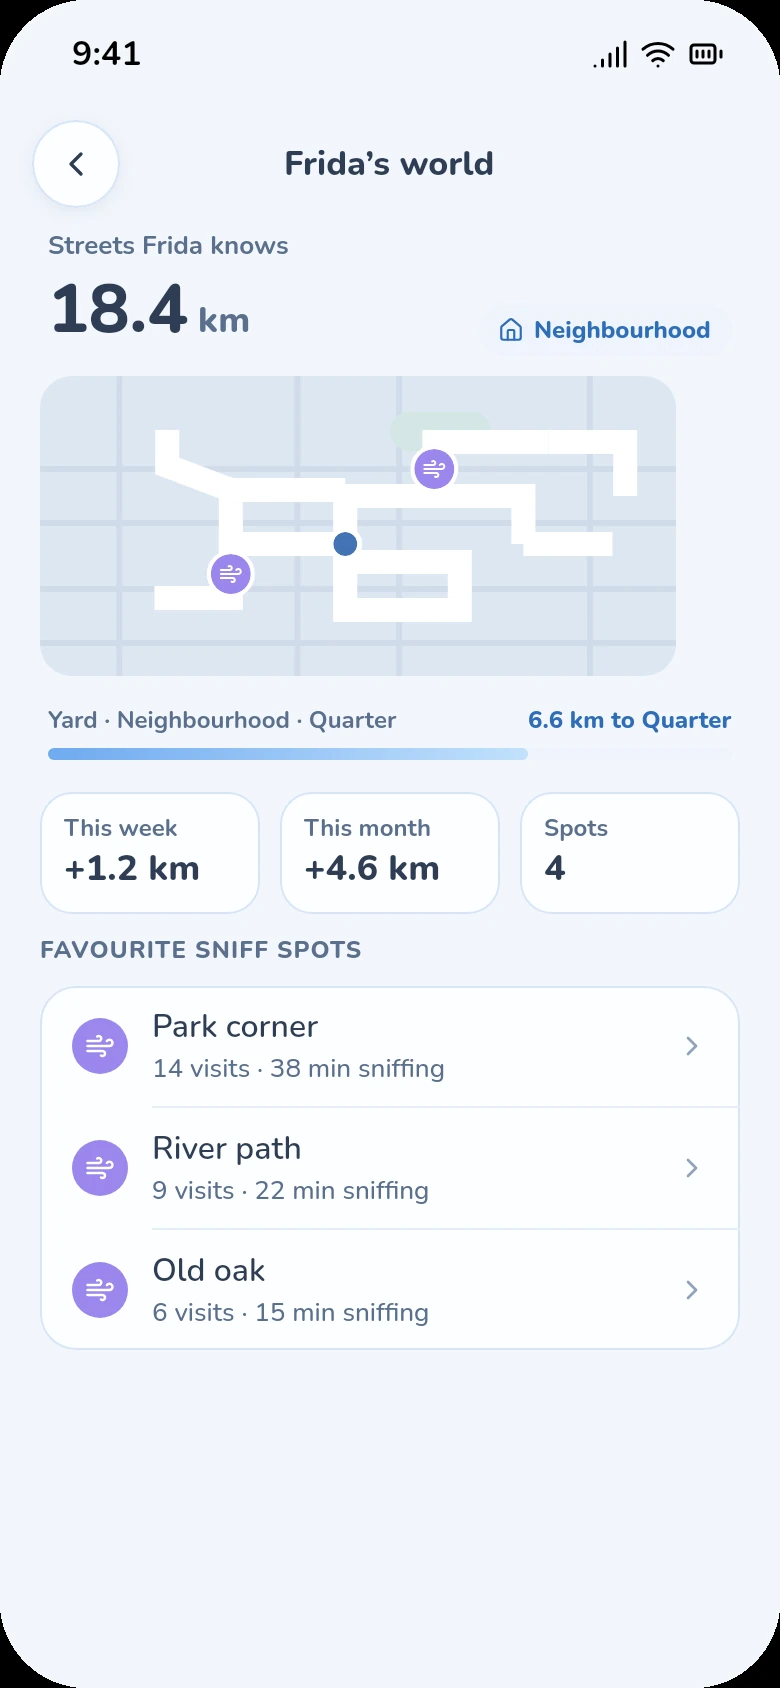
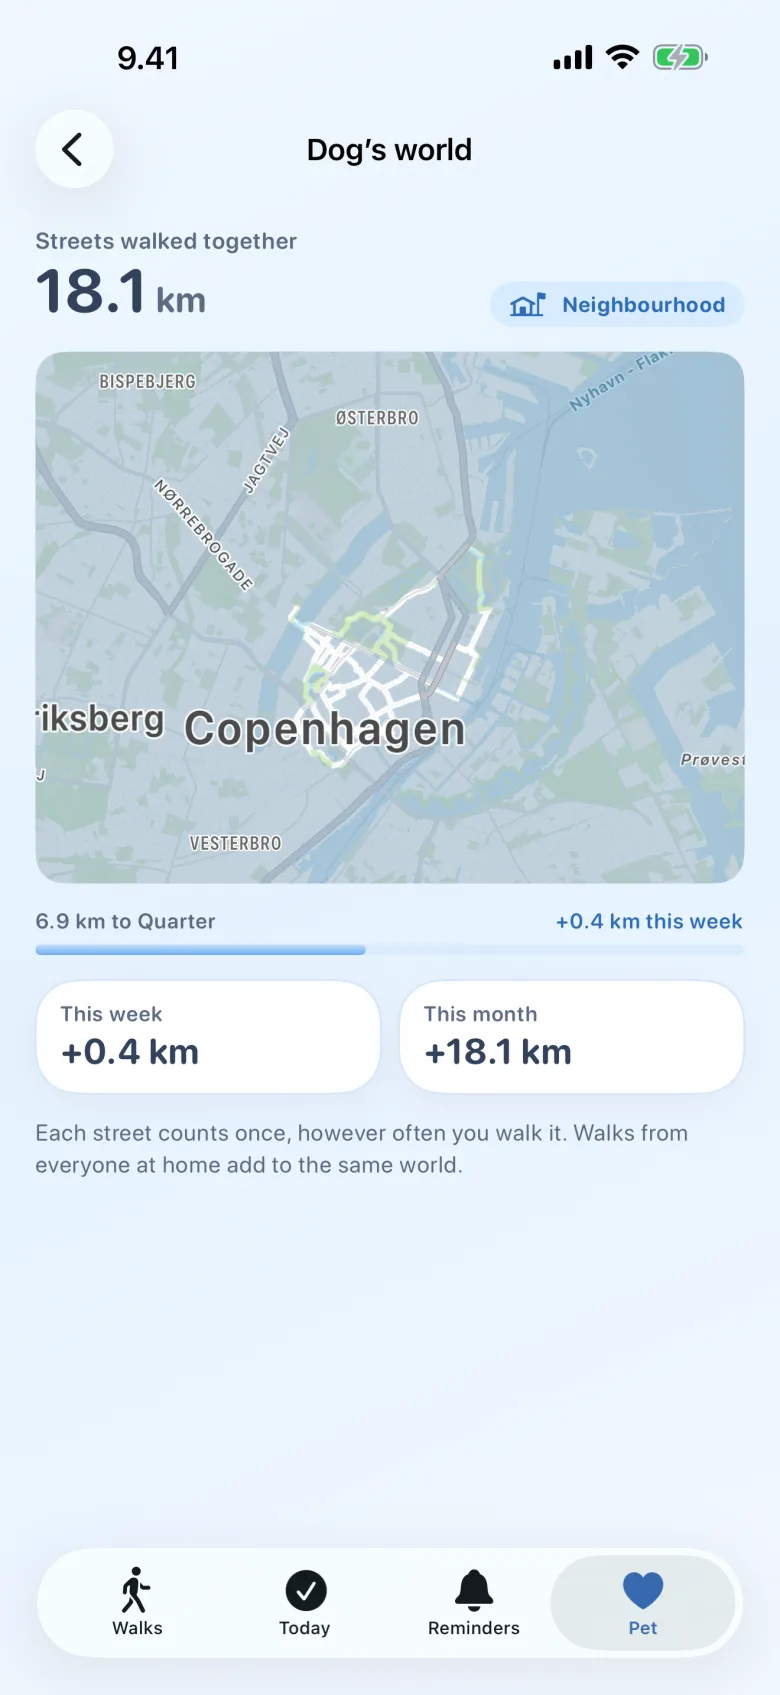
Remove personal names and photos from the website
- About: no dog photo or name; the clay dog avatar instead.
- App screenshots recaptured from the current app with neutral data
  (no pet or people names, no real city); the Bond screen replaces walk-saved.
- frida.webp renamed to dog.webp; unused old images deleted.

diff --git a/index.html b/index.html
@@ -7,7 +7,7 @@
   <meta name="description" content="PawTails is a calm iPhone app for families with a dog: walks your dog will love, daily care everyone can see, and everyone on the same page." />
   <meta property="og:title" content="PawTails · Every walk brings you closer" />
   <meta property="og:description" content="Walks your dog will love, daily care everyone can see, and the whole family on the same page." />
-  <meta property="og:image" content="https://pawtails-app.com/img/screen-walk-saved.webp" />
+  <meta property="og:image" content="https://pawtails-app.com/img/screen-today.webp" />
   <meta name="theme-color" content="#FFFFFF" />
   <link rel="icon" type="image/png" href="/favicon.png?v=2" />
   <link rel="apple-touch-icon" href="/apple-touch-icon.png?v=2" />
@@ -47,7 +47,7 @@
         Every walk
         <span class="inline-icon icon-rings" aria-hidden="true"><svg viewBox="0 0 100 100"><circle class="track sniff" cx="50" cy="50" r="38" /><circle class="fill sniff" cx="50" cy="50" r="38" pathLength="100" style="--v:78" /><circle class="track walk" cx="50" cy="50" r="22" /><circle class="fill walk" cx="50" cy="50" r="22" pathLength="100" style="--v:64" /></svg></span>
         brings you
-        <img class="inline-icon icon-dog" src="/img/frida.webp?v=5" alt="" />
+        <img class="inline-icon icon-dog" src="/img/dog.webp?v=6" alt="" />
         closer
       </h1>
       <p class="lede">Walks your dog will love, daily care everyone can see, and the whole family on the same page.</p>
@@ -63,10 +63,10 @@
 
     <section class="wrap" aria-label="App screens">
       <div class="showcase">
-        <figure class="shot"><img src="/img/screen-pet.webp?v=4" alt="Pet screen with today’s sniff and walk rings and Frida’s world" width="390" height="844" /></figure>
-        <figure class="shot shot-raised"><img src="/img/screen-today.webp?v=4" alt="Today: feeding done by Alice at 7:15, a walk done by you, medicine still to do" width="390" height="848" /></figure>
-        <figure class="shot"><img src="/img/screen-walk-saved.webp?v=4" alt="Walk saved: both rings closed" width="390" height="844" loading="lazy" /></figure>
-        <figure class="shot shot-raised"><img src="/img/screen-household.webp?v=3" alt="Household screen with members and an invite QR code" width="390" height="844" loading="lazy" /></figure>
+        <figure class="shot"><img src="/img/screen-pet.webp?v=6" alt="Pet screen with the dog’s world map, family and today’s rings" width="390" height="847" /></figure>
+        <figure class="shot shot-raised"><img src="/img/screen-today.webp?v=6" alt="Today: sniff and walk rings and the day’s care, each with who did it" width="390" height="847" /></figure>
+        <figure class="shot"><img src="/img/screen-bond.webp?v=6" alt="Bond ring closed: three moments with your dog today" width="390" height="847" loading="lazy" /></figure>
+        <figure class="shot shot-raised"><img src="/img/screen-household.webp?v=6" alt="Household screen with members and an invite QR code" width="390" height="847" loading="lazy" /></figure>
       </div>
     </section>
 
@@ -103,14 +103,14 @@
           <div class="tile-visual">
             <div class="rings" style="--sniff:73;--walk:71" role="img" aria-label="Sniff 11 of 15 minutes, walks 32 of 45 minutes">
               <svg viewBox="0 0 100 100"><circle class="track sniff" cx="50" cy="50" r="43.5" /><circle class="fill sniff" cx="50" cy="50" r="43.5" pathLength="100" /><circle class="track walk" cx="50" cy="50" r="28.5" /><circle class="fill walk" cx="50" cy="50" r="28.5" pathLength="100" /></svg>
-              <img src="/img/frida.webp?v=5" alt="" loading="lazy" />
+              <img src="/img/dog.webp?v=6" alt="" loading="lazy" />
             </div>
           </div>
         </article>
 
         <article class="tile">
           <header><h3>A bigger world, street by street</h3><p>Every new street joins the map, from the yard to the whole neighbourhood.</p></header>
-          <div class="tile-visual peek"><img src="/img/screen-world.webp" alt="" loading="lazy" /></div>
+          <div class="tile-visual peek"><img src="/img/screen-world.webp?v=6" alt="" loading="lazy" /></div>
         </article>
       </div>
     </section>
@@ -128,7 +128,7 @@
         <p class="soft">PawTails helps your family keep track. It isn’t veterinary advice: ask your vet about medicine and health.</p>
       </div>
       <div class="split-visual">
-        <figure class="shot"><img src="/img/screen-today.webp?v=4" alt="" width="390" height="848" loading="lazy" /></figure>
+        <figure class="shot"><img src="/img/screen-today.webp?v=6" alt="" width="390" height="847" loading="lazy" /></figure>
       </div>
     </section>
 
@@ -144,7 +144,7 @@
         </ul>
       </div>
       <div class="split-visual">
-        <figure class="shot"><img src="/img/screen-household.webp?v=3" alt="" width="390" height="844" loading="lazy" /></figure>
+        <figure class="shot"><img src="/img/screen-household.webp?v=6" alt="" width="390" height="847" loading="lazy" /></figure>
       </div>
     </section>
 

diff --git a/about/index.html b/about/index.html
@@ -11,7 +11,7 @@
   <link rel="preconnect" href="https://fonts.googleapis.com" />
   <link rel="preconnect" href="https://fonts.gstatic.com" crossorigin />
   <link href="https://fonts.googleapis.com/css2?family=Nunito:wght@500;600;700;800&family=Pacifico&display=swap" rel="stylesheet" />
-  <link rel="stylesheet" href="/site.css?v=20261103a" />
+  <link rel="stylesheet" href="/site.css?v=20261116a" />
 </head>
 <body class="doc-page about-page">
   <header class="topbar">
@@ -35,12 +35,12 @@
     </section>
 
     <section class="about-layout">
-      <img src="/frida.JPG" alt="Frida the rottweiler resting on the floor" class="about-photo" />
+      <img src="/img/dog.webp?v=6" alt="" class="about-photo is-avatar" width="400" height="400" />
       <div class="content-panel">
-        <p class="eyebrow">It started with Frida</p>
+        <p class="eyebrow">It started at home</p>
         <h2>A personal project for care that belongs to everyone.</h2>
         <p>
-          PawTails began as a personal project inspired by Frida, a rottweiler who quickly became the center
+          PawTails began as a personal project, inspired by the dog who quickly became the center
           of the daily routine at home.
         </p>
         <p>

diff --git a/site.css b/site.css
@@ -234,6 +234,7 @@ h1 { font-size: clamp(44px, 7.4vw, 92px); line-height: 1.04; letter-spacing: -0.
 
 .about-layout { display: grid; grid-template-columns: 1fr 1fr; gap: 20px; align-items: stretch; }
 .about-photo { width: 100%; height: 100%; min-height: 420px; object-fit: cover; border-radius: var(--radius-tile); }
+.about-photo.is-avatar { object-fit: contain; padding: clamp(32px, 8%, 72px); background: #dcebfb; }
 
 .policy-card { max-width: 860px; margin: 0 auto; gap: 14px; }
 .policy-meta { font-size: 16px !important; padding: 10px 16px; border-radius: 12px; background: #fff; justify-self: start; }
